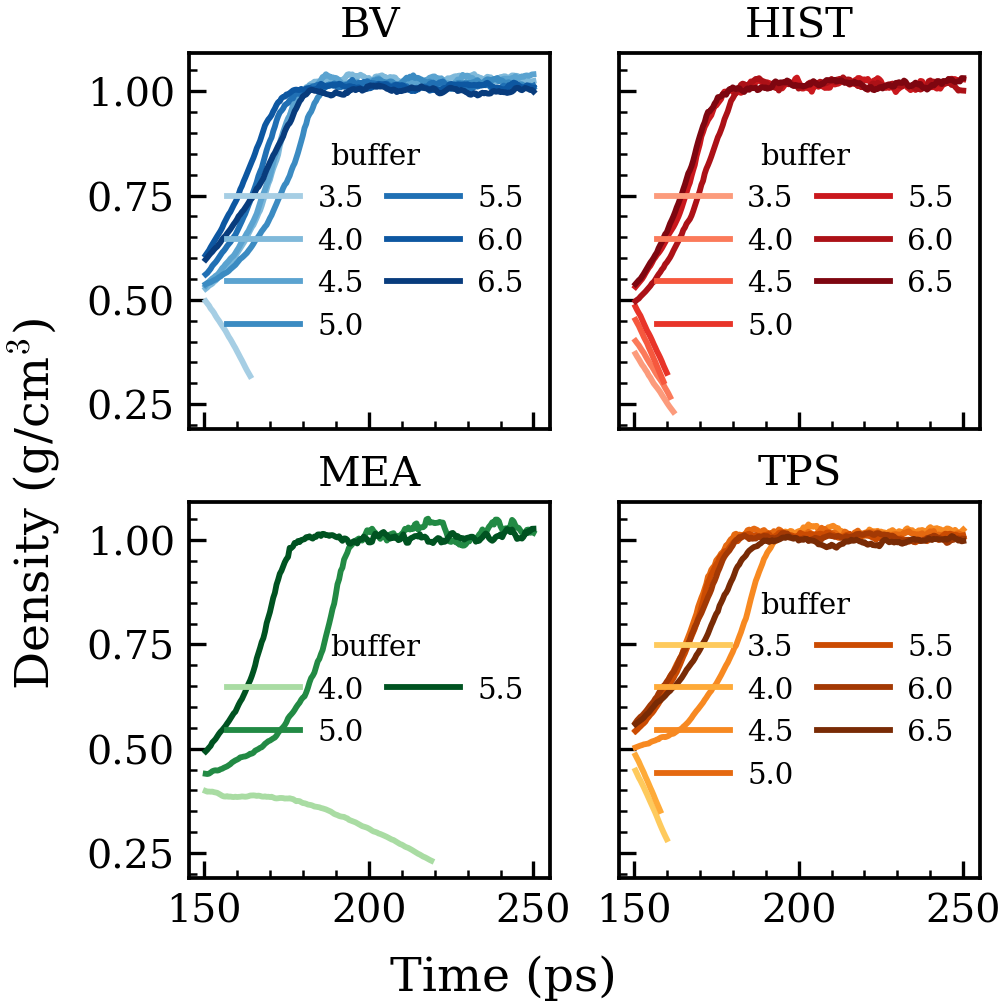
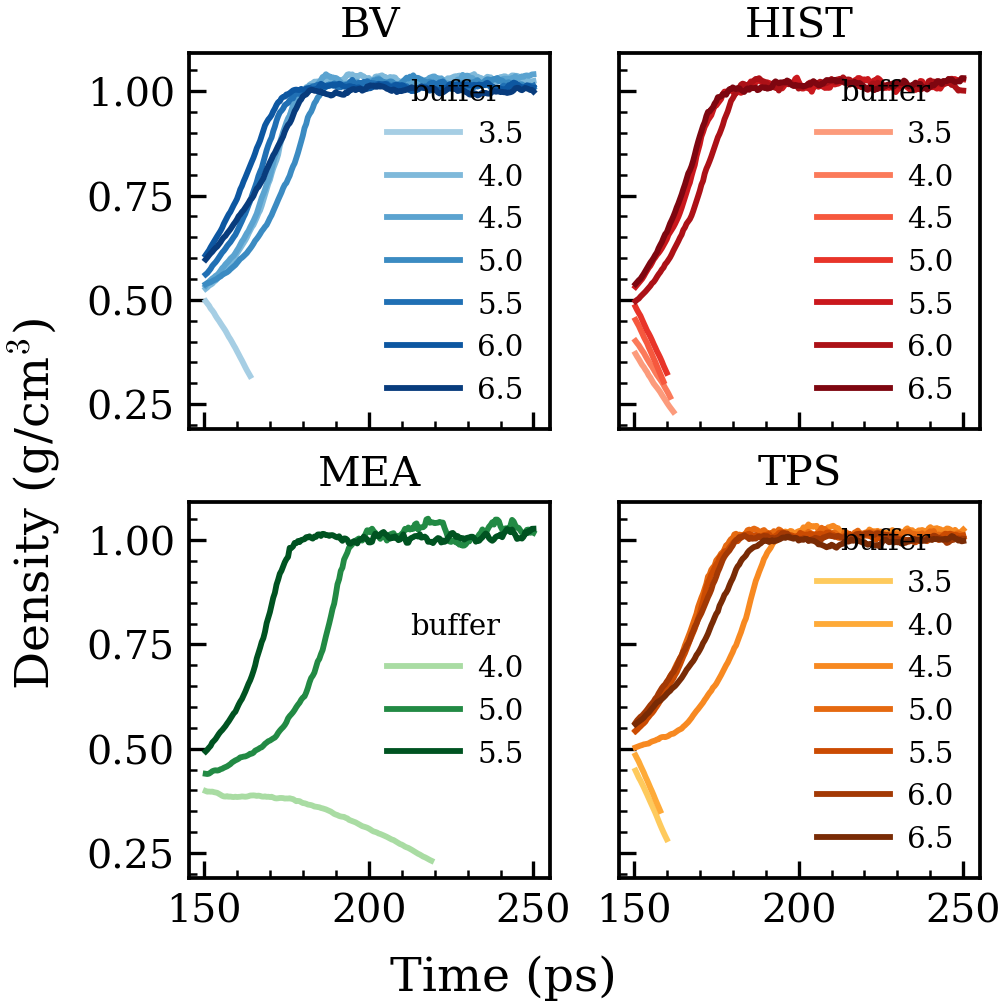
adjust mdreporter plot legend

diff --git a/plotting/plot_temp_and_density_grid.py b/plotting/plot_temp_and_density_grid.py
@@ -65,7 +65,7 @@ def parse_buffer_from_file(path: Path) -> float | None:
         return None
 
 
-def plot_system_timeseries(ax, system: str, files: list[Path], ylabel: str, legend_loc="upper right"):
+def plot_system_timeseries(ax, system: str, files: list[Path], ylabel: str, legend_loc="upper right", legend_ncol=2):
     """
     Draw all buffers for one system on a provided Axes.
     """
@@ -106,7 +106,7 @@ def plot_system_timeseries(ax, system: str, files: list[Path], ylabel: str, lege
     fontsize=7,
     title="buffer",
     title_fontsize=7,
-    ncol=2,
+    ncol=legend_ncol,
     loc=legend_loc,
     columnspacing=0.8,
     handlelength=2.5,
@@ -114,7 +114,7 @@ def plot_system_timeseries(ax, system: str, files: list[Path], ylabel: str, lege
     )
 
 
-def make_grid_figure(systems: list[str], data_dir: Path, pattern: str, ylabel: str, out_png: Path, force_yticks=None, legend_loc: str = "upper right"):
+def make_grid_figure(systems: list[str], data_dir: Path, pattern: str, ylabel: str, out_png: Path, force_yticks=None, legend_loc: str = "upper right", legend_ncol=2):
     """
     pattern examples:
       "solv_*_temp.dat"
@@ -137,7 +137,7 @@ def make_grid_figure(systems: list[str], data_dir: Path, pattern: str, ylabel: s
 
         sys_dir = data_dir / system
         files = sorted(sys_dir.glob(pattern)) if sys_dir.exists() else []
-        plot_system_timeseries(ax, system, files, ylabel, legend_loc)
+        plot_system_timeseries(ax, system, files, ylabel, legend_loc, legend_ncol)
 
     # turn off unused axes
     for idx in range(n, nrows * ncols):
@@ -179,6 +179,7 @@ def main():
         out_png=reports_dir / "temp_timeseries_grid.png",
         force_yticks=[0, 100, 200, 300, 400],
         legend_loc="lower right",
+        legend_ncol=2,
     )
 
     make_grid_figure(
@@ -188,6 +189,7 @@ def main():
         ylabel=r"Density (g/cm$^3$)",
         out_png=reports_dir / "density_timeseries_grid.png",
         legend_loc="center right",
+        legend_ncol=1,
     )
 
     print(f"Wrote:\n  {reports_dir/'temp_timeseries_grid.png'}\n  {reports_dir/'density_timeseries_grid.png'}")
